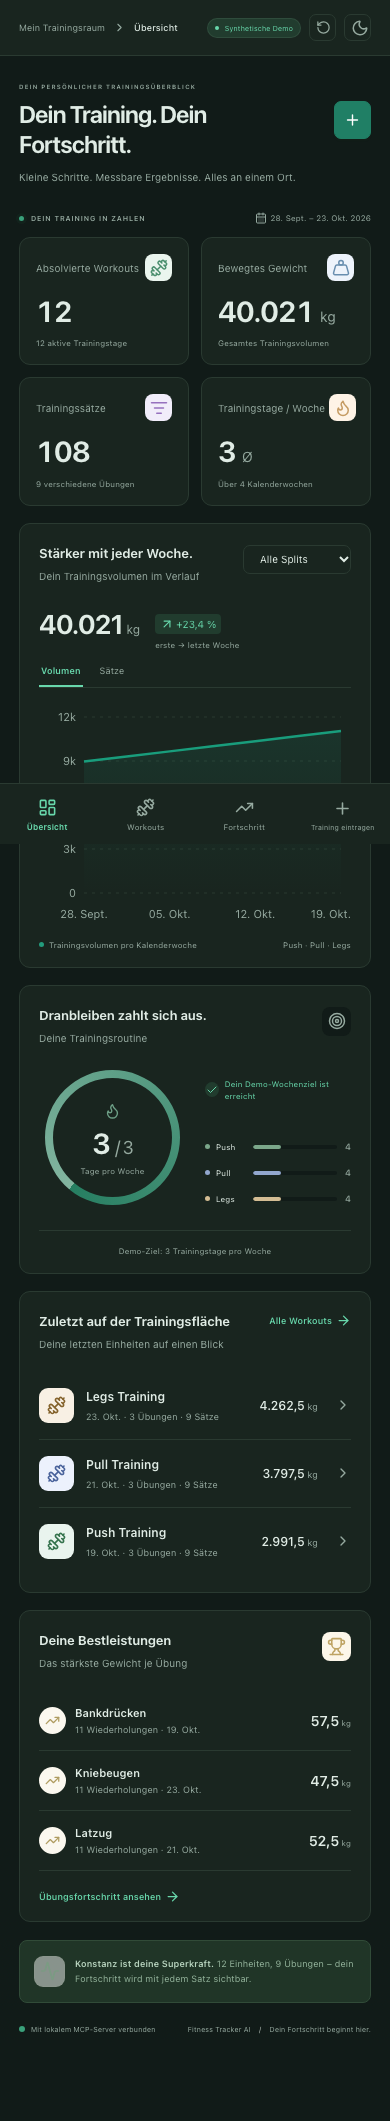
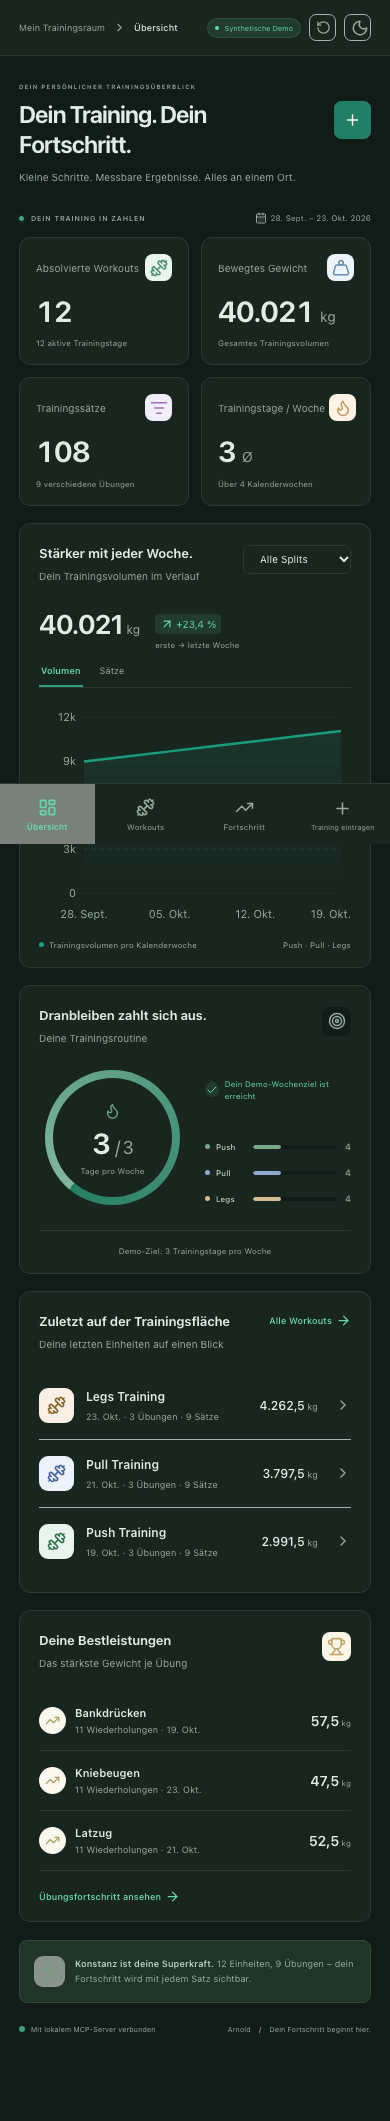
Rename project to Arnold

Changed region(s): [[0.0, 0.3423, 0.2462, 0.4045]]

diff --git a/tests/mcp.test.ts b/tests/mcp.test.ts
@@ -27,7 +27,7 @@ let base: string;
 const call = (name: string, args = {}) =>
   client.callTool({ name, arguments: args }) as Promise<CallToolResult>;
 beforeAll(async () => {
-  directory = await mkdtemp(join(tmpdir(), "fitness-mcp-"));
+  directory = await mkdtemp(join(tmpdir(), "arnold-mcp-"));
   http = createHttpApp({
     storage: new JsonStorageAdapter(join(directory, "demo.json")),
   }).listen(0, "127.0.0.1");
@@ -36,7 +36,7 @@ beforeAll(async () => {
     http.once("error", reject);
   });
   base = `http://127.0.0.1:${(http.address() as { port: number }).port}`;
-  client = new Client({ name: "fitness-integration-tests", version: "1.0.0" });
+  client = new Client({ name: "arnold-integration-tests", version: "1.0.0" });
   await client.connect(
     new StreamableHTTPClientTransport(new URL(`${base}/mcp`)),
   );
@@ -52,7 +52,7 @@ afterAll(async () => {
 
 describe("real Streamable HTTP MCP integration", () => {
   it("initializes and advertises all six tools with input/output schemas", async () => {
-    expect(client.getServerVersion()?.name).toBe("fitness-tracker-ai");
+    expect(client.getServerVersion()?.name).toBe("arnold");
     const { tools } = await client.listTools();
     expect(tools.map((t) => t.name).sort()).toEqual([
       "get_dashboard_data",
@@ -60,7 +60,7 @@ describe("real Streamable HTTP MCP integration", () => {
       "get_workouts",
       "log_demo_set",
       "reset_demo_data",
-      "show_fitness_dashboard",
+      "show_arnold_dashboard",
     ]);
     tools.forEach((tool) => {
       expect(tool.inputSchema.type).toBe("object");
@@ -68,7 +68,7 @@ describe("real Streamable HTTP MCP integration", () => {
       expect(tool.description).toBeTruthy();
     });
     expect(
-      tools.find((t) => t.name === "show_fitness_dashboard")?._meta?.ui,
+      tools.find((t) => t.name === "show_arnold_dashboard")?._meta?.ui,
     ).toMatchObject({ resourceUri: RESOURCE_URI });
     expect(
       tools.find((t) => t.name === "reset_demo_data")?.annotations
@@ -86,7 +86,7 @@ describe("real Streamable HTTP MCP integration", () => {
     expect("text" in resource && resource.text).not.toMatch(/<script[^>]*src=/);
   });
   it("opens dashboard and returns known totals", async () => {
-    const result = await call("show_fitness_dashboard");
+    const result = await call("show_arnold_dashboard");
     expect(result.isError).not.toBe(true);
     expect(DashboardSchema.parse(result.structuredContent).totals.sets).toBe(
       108,
@@ -230,11 +230,11 @@ it("offers only four read tools for Google Sheets and refreshes the underlying s
       "get_dashboard_data",
       "get_exercise_progress",
       "get_workouts",
-      "show_fitness_dashboard",
+      "show_arnold_dashboard",
     ]);
     expect(tools.every((t) => t.annotations?.readOnlyHint === true)).toBe(true);
     const first = DashboardSchema.parse(
-      (await reader.callTool({ name: "show_fitness_dashboard", arguments: {} }))
+      (await reader.callTool({ name: "show_arnold_dashboard", arguments: {} }))
         .structuredContent,
     );
     expect(first).toMatchObject({

diff --git a/src/ui/App.tsx b/src/ui/App.tsx
@@ -49,7 +49,7 @@ import {
   type WorkoutDetail,
 } from "../shared/schemas";
 import { round } from "../shared/calculations";
-import type { FitnessClient } from "./client";
+import type { ArnoldClient } from "./client";
 
 const fmt = (n: number, digits = 1) =>
   new Intl.NumberFormat("de-DE", { maximumFractionDigits: digits }).format(n);
@@ -104,12 +104,12 @@ function ErrorMessage({ error }: { error: string }) {
   ) : null;
 }
 
-export function FitnessApp({
+export function ArnoldApp({
   client,
   data,
   bridgeError,
 }: {
-  client: FitnessClient;
+  client: ArnoldClient;
   data: Dashboard;
   bridgeError: string;
 }) {
@@ -176,11 +176,11 @@ export function FitnessApp({
             e.preventDefault();
             go("dashboard");
           }}
-          aria-label="Fitness Tracker Startseite"
+          aria-label="Arnold Startseite"
         >
-          <span className="brand-icon">f.</span>
+          <span className="brand-icon">a.</span>
           <span>
-            fitness<span className="brand-light">tracker</span>
+            Arnold
             <small>POWERED BY AI</small>
           </span>
         </a>
@@ -378,8 +378,8 @@ export function FitnessApp({
                 : "Mit lokalem MCP-Server verbunden"}
             </span>
             <span>
-              Fitness Tracker AI <span className="footer-separator">/</span>{" "}
-              Dein Fortschritt beginnt hier.
+              Arnold <span className="footer-separator">/</span> Dein
+              Fortschritt beginnt hier.
             </span>
           </footer>
         </main>
@@ -883,7 +883,7 @@ function History({
   data,
   initialWorkoutId,
 }: {
-  client: FitnessClient;
+  client: ArnoldClient;
   data: Dashboard;
   initialWorkoutId?: string;
 }) {
@@ -1080,13 +1080,7 @@ function SetTable({
   );
 }
 
-function Progress({
-  client,
-  data,
-}: {
-  client: FitnessClient;
-  data: Dashboard;
-}) {
+function Progress({ client, data }: { client: ArnoldClient; data: Dashboard }) {
   const [exerciseId, setExerciseId] = useState(data.exercises[0]?.id ?? "");
   const [period, setPeriod] = useState("all");
   const [start, setStart] = useState("");
@@ -1291,7 +1285,7 @@ function Progress({
   );
 }
 
-function Logger({ client, data }: { client: FitnessClient; data: Dashboard }) {
+function Logger({ client, data }: { client: ArnoldClient; data: Dashboard }) {
   const [exerciseId, setExerciseId] = useState(data.exercises[0]?.id ?? "");
   const [date, setDate] = useState(
     data.period.end ?? new Date().toLocaleDateString("sv-SE"),

diff --git a/src/server/mcp.ts b/src/server/mcp.ts
@@ -24,7 +24,7 @@ import {
 } from "../shared/calculations.js";
 import type { StorageAdapter } from "./storage.js";
 
-export const RESOURCE_URI = "ui://fitness/dashboard-v4.html";
+export const RESOURCE_URI = "ui://arnold/dashboard-v5.html";
 const readOnly = {
   readOnlyHint: true,
   destructiveHint: false,
@@ -36,25 +36,22 @@ const result = (data: Record<string, unknown>, message: string) => ({
   structuredContent: data,
 });
 
-export function createFitnessMcpServer(
-  storage: StorageAdapter,
-  uiFile: string,
-) {
+export function createArnoldMcpServer(storage: StorageAdapter, uiFile: string) {
   const isDemo = storage.mode === "demo";
   const sourceLabel = isDemo
     ? "Synthetische Demo-Daten"
     : "Google Sheets · Trainingslog (lesend)";
   const readAnnotations = { ...readOnly, openWorldHint: !isDemo };
   const server = new McpServer({
-    name: "fitness-tracker-ai",
-    version: "0.3.0",
+    name: "arnold",
+    version: "0.4.0",
   });
   registerAppResource(
     server,
-    "Fitness Tracker AI",
+    "Arnold",
     RESOURCE_URI,
     {
-      description: `Interaktiver Fitness Tracker. Quelle: ${sourceLabel}.`,
+      description: `Interaktiver Trainingsbegleiter Arnold. Quelle: ${sourceLabel}.`,
       mimeType: RESOURCE_MIME_TYPE,
       _meta: {
         ui: {
@@ -82,10 +79,10 @@ export function createFitnessMcpServer(
 
   registerAppTool(
     server,
-    "show_fitness_dashboard",
+    "show_arnold_dashboard",
     {
-      title: "Fitness Tracker öffnen",
-      description: `Öffnet den interaktiven Fitness Tracker. Quelle: ${sourceLabel}. Verwenden, wenn der Nutzer seinen Fitness Tracker oder Trainingsüberblick öffnen möchte.`,
+      title: "Arnold öffnen",
+      description: `Öffnet den interaktiven Trainingsbegleiter Arnold. Quelle: ${sourceLabel}. Verwenden, wenn der Nutzer Arnold oder seinen Trainingsüberblick öffnen möchte.`,
       inputSchema: z.object({}),
       outputSchema: DashboardSchema,
       annotations: readAnnotations,

diff --git a/src/server/http.ts b/src/server/http.ts
@@ -2,7 +2,7 @@ import { createMcpExpressApp } from "@modelcontextprotocol/express";
 import { NodeStreamableHTTPServerTransport } from "@modelcontextprotocol/node";
 import type { NextFunction, Request, Response } from "express";
 import { resolve } from "node:path";
-import { createFitnessMcpServer } from "./mcp.js";
+import { createArnoldMcpServer } from "./mcp.js";
 import type { StorageAdapter } from "./storage.js";
 import { createStorage, requirePrivateBinding } from "./storage-config.js";
 
@@ -81,10 +81,10 @@ export function createHttpApp(options: ServerOptions = {}) {
   app.get("/health", (_req, res) =>
     res.json({
       status: "ok",
-      app: "fitness-tracker-ai",
+      app: "arnold",
       synthetic: storage.mode === "demo",
       source: storage.mode === "demo" ? "local_demo" : "google_sheets",
-      version: "0.3.0",
+      version: "0.4.0",
     }),
   );
   app.get("/", (_req, res) => res.redirect("/preview"));
@@ -95,7 +95,7 @@ export function createHttpApp(options: ServerOptions = {}) {
     res.sendFile(resolve(root, "dist/host/host.html")),
   );
   app.all("/mcp", async (req, res) => {
-    const server = createFitnessMcpServer(
+    const server = createArnoldMcpServer(
       storage,
       resolve(root, "dist/ui/dashboard.html"),
     );

diff --git a/src/ui/main.tsx b/src/ui/main.tsx
@@ -1,12 +1,12 @@
 import { createRoot } from "react-dom/client";
 import { useEffect, useState } from "react";
-import { FitnessClient } from "./client";
-import { FitnessApp } from "./App";
+import { ArnoldClient } from "./client";
+import { ArnoldApp } from "./App";
 import type { Dashboard } from "../shared/schemas";
 import "./style.css";
 
 function Boot() {
-  const [client] = useState(() => new FitnessClient());
+  const [client] = useState(() => new ArnoldClient());
   const [dashboard, setDashboard] = useState<Dashboard>();
   const [error, setError] = useState("");
   useEffect(() => {
@@ -31,8 +31,8 @@ function Boot() {
   if (!dashboard)
     return (
       <main className="boot">
-        <div className="brand-icon">f.</div>
-        <h1>Fitness Tracker AI</h1>
+        <div className="brand-icon">a.</div>
+        <h1>Arnold</h1>
         {error ? (
           <>
             <p role="alert">{error}</p>
@@ -48,6 +48,6 @@ function Boot() {
         )}
       </main>
     );
-  return <FitnessApp client={client} data={dashboard} bridgeError={error} />;
+  return <ArnoldApp client={client} data={dashboard} bridgeError={error} />;
 }
 createRoot(document.getElementById("root")!).render(<Boot />);

diff --git a/src/ui/client.ts b/src/ui/client.ts
@@ -6,7 +6,7 @@ import {
 } from "@modelcontextprotocol/client";
 import { DashboardSchema, type Dashboard } from "../shared/schemas";
 
-export class FitnessClient {
+export class ArnoldClient {
   private app?: App;
   private preview?: Client;
   readonly embedded = window.parent !== window;
@@ -33,7 +33,7 @@ export class FitnessClient {
   async connect() {
     if (this.embedded) {
       this.app = new App(
-        { name: "Fitness Tracker AI", version: "0.3.0" },
+        { name: "Arnold", version: "0.4.0" },
         {},
         { autoResize: true },
       );
@@ -72,13 +72,13 @@ export class FitnessClient {
       if (context?.theme) this.onTheme?.(context.theme);
     } else {
       this.preview = new Client({
-        name: "fitness-browser-preview",
-        version: "0.3.0",
+        name: "arnold-browser-preview",
+        version: "0.4.0",
       });
       await this.preview.connect(
         new StreamableHTTPClientTransport(new URL("/mcp", location.href)),
       );
-      await this.call("show_fitness_dashboard");
+      await this.call("show_arnold_dashboard");
     }
   }
   async call(name: string, args: Record<string, unknown> = {}) {

diff --git a/src/host/main.ts b/src/host/main.ts
@@ -17,14 +17,14 @@ const status = document.querySelector<HTMLDivElement>("#host-status")!;
 const iframe = document.querySelector<HTMLIFrameElement>("iframe")!;
 async function start() {
   const client = new Client({
-    name: "fitness-local-test-host",
-    version: "0.3.0",
+    name: "arnold-local-test-host",
+    version: "0.4.0",
   });
   await client.connect(
     new StreamableHTTPClientTransport(new URL("/mcp", location.href)),
   );
   const { tools } = await client.listTools();
-  const tool = tools.find((t) => t.name === "show_fitness_dashboard");
+  const tool = tools.find((t) => t.name === "show_arnold_dashboard");
   const uri = tool && getToolUiResourceUri(tool);
   if (!uri) throw new Error("UI-Ressource fehlt in tools/list.");
   const resource = await client.readResource({ uri });
@@ -41,7 +41,7 @@ async function start() {
   })) as CallToolResult;
   const bridge = new AppBridge(
     client,
-    { name: "fitness-local-test-host", version: "0.3.0" },
+    { name: "arnold-local-test-host", version: "0.4.0" },
     {
       serverTools: {},
       serverResources: {},

diff --git a/src/server/main.ts b/src/server/main.ts
@@ -5,7 +5,7 @@ if (!Number.isInteger(port) || port < 1 || port > 65535)
   throw new Error("PORT muss zwischen 1 und 65535 liegen.");
 const server = createHttpApp({ host }).listen(port, host, () => {
   console.log(
-    `Fitness Tracker AI · ${process.env.STORAGE_MODE === "google_sheets" ? "Google Sheets (lesend, privat)" : "synthetische Demo"}\nPreview: http://localhost:${port}/preview\nMCP Apps Test-Host: http://localhost:${port}/host\nMCP: http://localhost:${port}/mcp`,
+    `Arnold · ${process.env.STORAGE_MODE === "google_sheets" ? "Google Sheets (lesend, privat)" : "synthetische Demo"}\nPreview: http://localhost:${port}/preview\nMCP Apps Test-Host: http://localhost:${port}/host\nMCP: http://localhost:${port}/mcp`,
   );
 });
 const shutdown = () => {

diff --git a/tests/e2e/arnold.spec.ts b/tests/e2e/arnold.spec.ts
@@ -154,7 +154,7 @@ test("official AppBridge initializes sandboxed UI and forwards tools from the ap
   await expect(app.getByRole("dialog")).not.toBeVisible();
   expect(calls).toEqual(
     expect.arrayContaining([
-      "show_fitness_dashboard",
+      "show_arnold_dashboard",
       "get_workouts",
       "get_exercise_progress",
       "log_demo_set",
@@ -201,7 +201,7 @@ test("replayed host snapshots are reconciled with persisted backend data", async
       request.method() === "POST" ? request.postDataJSON() : undefined;
     if (
       body?.method !== "tools/call" ||
-      body.params.name !== "show_fitness_dashboard"
+      body.params.name !== "show_arnold_dashboard"
     ) {
       await route.continue();
       return;

diff --git a/host.html b/host.html
@@ -3,14 +3,11 @@
   <head>
     <meta charset="UTF-8" />
     <meta name="viewport" content="width=device-width, initial-scale=1.0" />
-    <title>Fitness MCP Apps · Local Host</title>
+    <title>Arnold MCP Apps · Local Host</title>
   </head>
   <body>
     <div id="host-status" role="status">MCP-Verbindung wird aufgebaut …</div>
-    <iframe
-      title="Fitness Tracker MCP App"
-      sandbox="allow-scripts allow-forms"
-    ></iframe>
+    <iframe title="Arnold MCP App" sandbox="allow-scripts allow-forms"></iframe>
     <script type="module" src="/src/host/main.ts"></script>
   </body>
 </html>

diff --git a/tests/storage.test.ts b/tests/storage.test.ts
@@ -16,7 +16,7 @@ const input = {
   rpe: 8,
 };
 beforeEach(async () => {
-  directory = await mkdtemp(join(tmpdir(), "fitness-storage-"));
+  directory = await mkdtemp(join(tmpdir(), "arnold-storage-"));
   file = join(directory, "demo.json");
   storage = new JsonStorageAdapter(file);
 });

diff --git a/dashboard.html b/dashboard.html
@@ -4,7 +4,7 @@
     <meta charset="UTF-8" />
     <meta name="viewport" content="width=device-width, initial-scale=1.0" />
     <meta name="color-scheme" content="light dark" />
-    <title>Fitness Tracker AI</title>
+    <title>Arnold</title>
   </head>
   <body>
     <div id="root"></div>
